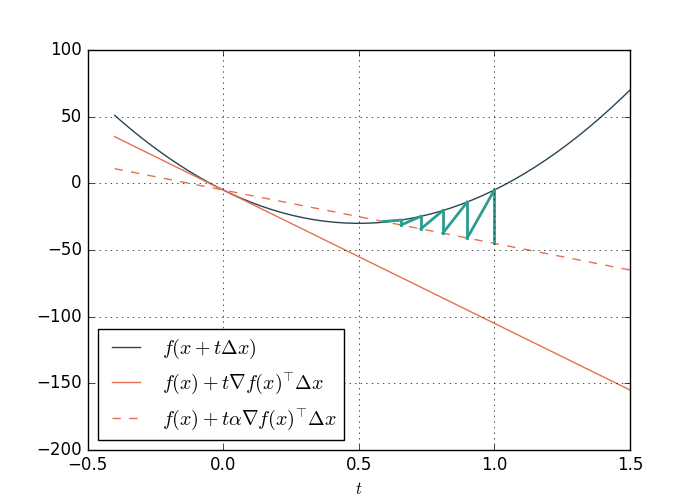
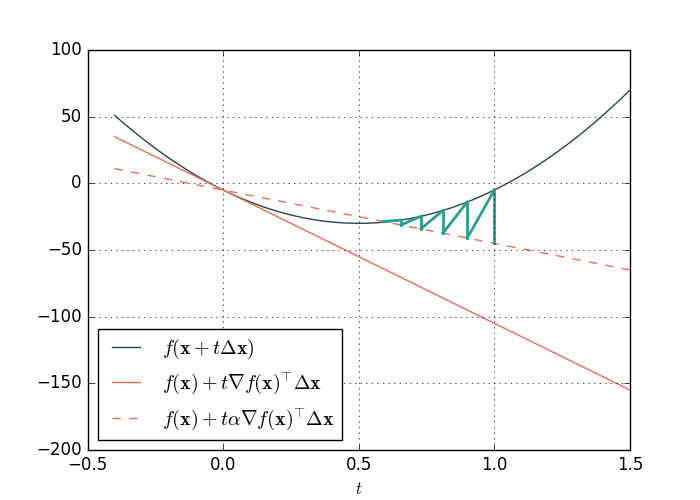
Read through unconstr. optimization

Changed region(s): [[0.3, 0.66, 0.51, 0.87], [0.24, 0.66, 0.39, 0.72], [0.24, 0.75, 0.27, 0.78]]

diff --git a/Chapters/02.Unconstrained/teachingtools.py b/Chapters/02.Unconstrained/teachingtools.py
@@ -107,11 +107,12 @@ def show_inexact_ls(alpha=0.4, beta=0.9, Dx=10):
     t_begin = -0.4
     t_end = 1.5
     tvals = np.linspace(t_begin, t_end)
-    ax.plot(tvals, f(tvals * Dx), color=blue, label=r'$f(x+t\Delta x)$')
+    ax.plot(tvals, f(tvals * Dx), color=blue,
+                label=r'$f(\mathbf{x}+t\Delta \mathbf{x})$')
     ax.plot(tvals, f(0) + tvals * df(0) * Dx, color=red,
-                label=r'$f(x)+t\nabla f(x)^\top \Delta x$')
+                label=r'$f(\mathbf{x})+t\nabla f(\mathbf{x})^\top \Delta \mathbf{x}$')
     ax.plot(tvals, f(0) + tvals * df(0) * alpha * Dx, color=red, ls='--',
-                        label=r'$f(x)+t\alpha\nabla f(x)^\top \Delta x$')
+                label=r'$f(\mathbf{x})+t\alpha\nabla f(\mathbf{x})^\top \Delta \mathbf{x}$')
     t = 1
     n_steps = 0
     while f(t * Dx) > f(0) + alpha * t * df(0) * Dx:

diff --git a/Chapters/02.Unconstrained/figure_btls.py b/Chapters/02.Unconstrained/figure_btls.py
@@ -1,0 +1,14 @@
+"""
+Created on Tuesday 13 February 2019
+Last update: -
+
+@author: Michiel Stock
+michielfmstock@gmail.com
+
+Figure BTLS
+"""
+
+from teachingtools import *
+
+fig = show_inexact_ls(alpha=0.4, beta=0.9, Dx=10)
+fig.savefig('Figures/btls.png')

diff --git a/Chapters/02.Unconstrained/notes_unconstrained.md b/Chapters/02.Unconstrained/notes_unconstrained.md
@@ -34,7 +34,7 @@ Most convex optimization problems do not have a closed-from solution, with the q
 > - dom($f$) is convex
 > - for any $\mathbf{x}, \mathbf{x}' \in \text{dom}(f)$ and any $\theta \in [0, 1]$, it holds that $f(\theta \mathbf{x} + (1-\theta)\mathbf{x}') \leq\theta f(\mathbf{x}) +(1-\theta)f(\mathbf{x}')$.
 
-![](Figures/convex_function_illustration.png)
+![A line connecting two points of a convex function always lies above the function.](Figures/convex_function_illustration.png)
 
 ![Some convex (A & C) and non-convex functions (B).](Figures/convex_functions.png)
 
@@ -46,7 +46,7 @@ From the definition, it follows that:
 Convex functions frequently arise:
 
 - If $f$ and $g$ are both convex, then $m(x)=\max(f(x), g(x))$ and $h(x)=f(x)+g(x)$ are also convex.
-- If $f$ and $g$ are convex functions and $g$ is non-decreasing over a univariate domain, then $h(x)=g(f(x))$ is convex. Example: $e^{f(x)}$ is convex if $f(\mathbf{x})$ is convex.
+- If $f$ and $g$ are convex functions and $g$ is non-decreasing over a univariate domain, then $h(x)=g(f(x))$ is convex. Example: $e^{f(x)}$ is convex if $f({x})$ is convex.
 
 Note, the convexity of expected value in probability theory gives rise to *Jensen's inequality*. For any convex function $\varphi$, if holds that
 $$
@@ -63,13 +63,15 @@ This implies for example that the square of an expected value of quantity is nev
 
 If the first- and second order derivatives exists, an strongly $m$-convex satisfies:
 
-- $f(\mathbf{x}') \geq f(\mathbf{x}) + \nabla f(\mathbf{x})^\intercal (\mathbf{x}'-\mathbf{x}) + \frac{m}{2}||\mathbf{x}'-\mathbf{x}||_2$
+- $f(\mathbf{x}') \geq f(\mathbf{x}) + \nabla f(\mathbf{x})^\top (\mathbf{x}'-\mathbf{x}) + \frac{m}{2}||\mathbf{x}'-\mathbf{x}||_2$
 - $\nabla^2 f(\mathbf{x})-mI\succeq 0$
 
 If a function is $m$-strongly convex, this also implies that there exists an $M>m$ such that
 $$
 \nabla^2 f(\mathbf{x}) \preceq MI\,.
 $$
+
+Stated differently, for strongly convex functions the exist both a quadratic function with a smaller as well as a lower local curvature.
 
 ## Minimizing convex functions
 
@@ -140,7 +142,7 @@ Many methods exist for this, we will consider the *backtracking line search* (BT
 >
 > $t:=1$
 >
->**while** $f(\mathbf{x}+t\Delta \mathbf{x}) > f(x) +\alpha t \nabla f(\mathbf{x})^\intercal\Delta \mathbf{x}$
+>**while** $f(\mathbf{x}+t\Delta \mathbf{x}) > f(x) +\alpha t \nabla f(\mathbf{x})^\top\Delta \mathbf{x}$
 >
 >>    $t:=\beta t$
 >
@@ -150,6 +152,7 @@ Many methods exist for this, we will consider the *backtracking line search* (BT
 ![Illustration of the backtracking line search.](Figures/btls.png)
 
 **Assignment 1**
+
 1. Complete the code for the backtracking line search
 2. Use this function find the step size $t$ to (approximately) minimize $f(x) = x^2 - 2x - 5$ starting from the point $0$. Choose a $\Delta x=10$.
 
@@ -186,7 +189,7 @@ A natural choise for the search direction is the negative gradient: $\Delta \mat
 
 ### General gradient descent algorithm
 
->**input** starting point $x\in$ **dom** $f$.
+>**input** starting point $\mathbf{x}\in$ **dom** $f$.
 >
 >**repeat**
 >
@@ -202,9 +205,9 @@ The stopping criterion is usually of the form $||\nabla f(\mathbf{x})||_2 \leq \
 
 ### Convergence analysis
 
-The notion of strongly convexity alows us to bound the function $f$ by two quadratic functions. As such we can reuse the convergence analysis of the previous chapter.
+The notion of strongly convexity allows us to bound the function $f$ by two quadratic functions. As such we can reuse the convergence analysis of the previous chapter.
 
-If $f$ is strongly convex (constants $m$ and $M$ exist), it holds that $f(\mathbf{x}^{(k)}) - p^*\leq \varepsilon$ after at most
+If $f$ is strongly convex (constants $m$ and $M$ exist such that $mI\prec \nabla^2 f(\mathbf{x})\prec MI$), it holds that $f(\mathbf{x}^{(k)}) - p^*\leq \varepsilon$ after at most
 $$
 \frac{\log((f(\mathbf{x}^{(0)}) - p^*)/\varepsilon)}{\log(1/c)}
 $$
@@ -212,7 +215,7 @@ iterations, where $c =1-\frac{m}{M}<1$.
 
 We conclude:
 
-- Number of steps needed for a given quality is proportional to the logarithm of the initial error.
+- The number of steps needed for a given quality is proportional to the logarithm of the initial error.
 - To increase the accuracy with an order of magnitude, only a few more steps are needed.
 - Convergence is again determined by the *condition number* $m/M$. Note that for large condition numbers: $\log(1/c)=-\log(1-\frac{m}{M})\approx m/M$, so the number of required iterations increases linearly with increasing $m/M$.
 
@@ -284,7 +287,7 @@ $$
 
 Consider $P\in \mathbb{R}^{n\times n}$ such that $P\succ 0$. The  corresponding *quadratic norm*:
 $$
-||\mathbf{z}||_P = (\mathbf{z}^\intercal P\mathbf{z})^\frac{1}{2}=||P^\frac{1}{2}\mathbf{z}||_2\,.
+||\mathbf{z}||_P = (\mathbf{z}^\top P\mathbf{z})^\frac{1}{2}=||P^\frac{1}{2}\mathbf{z}||_2\,.
 $$
 The matrix $P$ can be used to encode prior knowledge about the scales and dependencies in the space that we want to search.
 
@@ -292,7 +295,7 @@ The matrix $P$ can be used to encode prior knowledge about the scales and depend
 
 Let $|| \cdot ||$ be a norm on $\mathbb{R}^n$. The associated dual norm:
 $$
-||\mathbf{z}||_*=\sup \{\mathbf{z}^\intercal\mathbf{x}\mid ||\mathbf{x}||\leq 0\}\,.
+||\mathbf{z}||_*=\sup \{\mathbf{z}^\top\mathbf{x}\mid ||\mathbf{x}||\leq 0\}\,.
 $$
 
 Examples:
@@ -306,7 +309,7 @@ Examples:
 **Normalized steepest descent direction**:
 
 $$
-\Delta x_\text{nsd} = \text{arg min}_\mathbf{v}\, \{\nabla f(x)^T \mathbf{v} \mid ||\mathbf{v}||\leq 1 \}\,.
+\Delta x_\text{nsd} = \text{arg min}_\mathbf{v}\, \{\nabla f(\mathbf{x})^T \mathbf{v} \mid ||\mathbf{v}||\leq 1 \}\,.
 $$
 
 **Unnormalized steepest descent direction**:
@@ -317,7 +320,7 @@ $$
 
 Note that we have
 $$
-\nabla f(\mathbf{x})^\intercal \Delta x_\text{sd} = ||\nabla f(\mathbf{x})||_\star \nabla f(\mathbf{x})^\intercal\Delta x_\text{nsd} = -||\nabla f(\mathbf{x})||^2_\star\,,
+\nabla f(\mathbf{x})^\top \Delta x_\text{sd} = ||\nabla f(\mathbf{x})||_\star \nabla f(\mathbf{x})^\top\Delta x_\text{nsd} = -||\nabla f(\mathbf{x})||^2_\star\,,
 $$
 so this is a valid descent method.
 
@@ -325,14 +328,14 @@ so this is a valid descent method.
 
 ### Coordinate descent algorithm
 
-Using the $L_1$ norm results in coordinate descent.
+Using the $L_1$ norm results in coordinate descent. For every iteration in this algorithm, we descent in the direction of the dimension where the absolute value of the gradient is largest.
 
 >**input** starting point $\mathbf{x}\in$ **dom** $f$.
 >
 >**repeat**
 >
 >>    1. *Direction*. Choose $i$ such that $|\nabla f(\mathbf{x})_i|$ is maximal.
->>    2. *Choose direction*. $\Delta \mathbf{x} := -\nabla f(\mathbf{x})_i e_i$
+>>    2. *Choose direction*. $\Delta \mathbf{x} := -\nabla f(\mathbf{x})_i \mathbf{e}_i$
 >>    3. *Line seach*. Choose a step size $t$ via exact or backtracking line search.
 >>    4. *Update*. $\mathbf{x}:=\mathbf{x}+t\Delta \mathbf{x}$.
 >
@@ -340,11 +343,15 @@ Using the $L_1$ norm results in coordinate descent.
 >
 >**output** $\mathbf{x}$
 
-Here, $e_i$ is the $i$-th basic vector.
+Here, $\mathbf{e}_i$ is the $i$-th basic vector.
 
 The stopping criterion is usually of the form $||\nabla f(\mathbf{x})||_2 \leq \nu$.
 
 ![Convergence of coordinate descent on the quadratic and non-quadratic functions.](Figures/steepest_descent.png)
+
+Coordinate descent optimizes every dimension in turn, for this reason it is sometimes used in minimization problems which enforce sparseness (e.g. LASSO regression).
+
+> *Optimizing one dimension at a time is usually a poor strategy. This is because different dimensions are often related.*
 
 **Assignment 3**
 
@@ -399,7 +406,7 @@ which is called the *Newton step*.
 
 If $f$ is convex, then $\nabla^2f(\mathbf{x})$ is positive definite and
 $$
-\nabla f(\mathbf{x})^\intercal \Delta \mathbf{\mathbf{x}}_\text{nt} \geq 0\,,
+\nabla f(\mathbf{x})^\top \Delta \mathbf{\mathbf{x}}_\text{nt} \geq 0\,,
 $$
 hence the Newton step is a descent direction unless $\mathbf{x}$ is optimal.
 
@@ -410,10 +417,10 @@ This Newton step can be motivated in several ways.
 The second order Taylor approximation $\hat{f}$ of $f$ at $\mathbf{x}$ is
 
 $$
-f(\mathbf{x}+\mathbf{v})\approx\hat{f}(\mathbf{x}+\mathbf{v}) = f(\mathbf{x}) + \nabla f(\mathbf{x})^\intercal \mathbf{v} + \frac{1}{2} \mathbf{v}^\intercal \nabla^2 f(\mathbf{x}) \mathbf{v}\,
+f(\mathbf{x}+\mathbf{v})\approx\hat{f}(\mathbf{x}+\mathbf{v}) = f(\mathbf{x}) + \nabla f(\mathbf{x})^\top \mathbf{v} + \frac{1}{2} \mathbf{v}^\top \nabla^2 f(\mathbf{x}) \mathbf{v}\,
 $$
 
-which is a convex quadratic function of $\mathbf{v}$, and is minimized when $v=\Delta \mathbf{x}_\text{nt}$.
+which is a convex quadratic function of $\mathbf{v}$, and is minimized when $\mathbf{v}=\Delta \mathbf{x}_\text{nt}$.
 
 This quadratic model will be particularly accurate when $\mathbf{x}$ is close to $\mathbf{x}^*$.
 
@@ -421,7 +428,7 @@ This quadratic model will be particularly accurate when $\mathbf{x}$ is close to
 
 The Newton step is the steepest descent step if a quadratic norm using the Hessian is used, i.e.
 $$
-||\mathbf{u}||_{\nabla^2f(\mathbf{x})}=(\mathbf{u}^\intercal\nabla^2f(\mathbf{x})\mathbf{u})^\frac{1}{2}\,.
+||\mathbf{u}||_{\nabla^2f(\mathbf{x})}=(\mathbf{u}^\top\nabla^2f(\mathbf{x})\mathbf{u})^\frac{1}{2}\,.
 $$
 
 **Affine invariance of the Newton step**
@@ -430,18 +437,22 @@ $$
 
 The Newton step is independent of linear or affine changes of coordinates. Consider a non-singular $n\times n$ transformation matrix $T$. If we apply a coordinate transformation $\mathbf{y}=T\mathbf{x}$ and define $\bar{f}(\mathbf{y}) = f(\mathbf{x})$, then
 $$
-\nabla \bar{f}(\mathbf{y}) = T^\intercal\nabla f(\mathbf{x})\,,\quad \nabla^2 \bar{f}(\mathbf{y}) = T^\intercal\nabla^2f(\mathbf{x})T\,.
+\nabla \bar{f}(\mathbf{y}) = T^\top\nabla f(\mathbf{x})\,,\quad \nabla^2 \bar{f}(\mathbf{y}) = T^\top\nabla^2f(\mathbf{x})T\,.
 $$
 As such it follows that
 $$
 \mathbf{x} + \Delta \mathbf{x}_\text{nt} = T (\mathbf{y} + \Delta \mathbf{y}_\text{nt})\,.
 $$
 
+**Questions 1**
+
+Does scaling and rotation affect the working of gradient descent and coordinate descent?
+
 ### Newton decrement
 
 The Newton decrement is defined as
 $$
-\lambda(\mathbf{x})  = (\nabla f(\mathbf{x})^\intercal\nabla^2 f(x)^{-1}\nabla f(\mathbf{x}))^{1/2}\,.
+\lambda(\mathbf{x})  = (\nabla f(\mathbf{x})^\top\nabla^2 f(x)^{-1}\nabla f(\mathbf{x}))^{1/2}\,.
 $$
 
 This can be related to the quantity $f(\mathbf{x})-\text{inf}_\mathbf{y}\ \hat{f}(\mathbf{y})$:
@@ -456,7 +467,7 @@ Thus $\frac{1}{2} \lambda(\mathbf{x})^2$ is an estimate of $f(\mathbf{x}) - p^*$
 >
 >**repeat**
 >
->>    1. Compute the Newton step and decrement $\Delta \mathbf{x}_\text{nt} := -\nabla^2f(\mathbf{x})^{-1} \nabla f(\mathbf{x})$; $\lambda^2:=\nabla f(\mathbf{x})^\intercal\nabla^2 f(x)^{-1}\nabla f(x)$.
+>>    1. Compute the Newton step and decrement $\Delta \mathbf{x}_\text{nt} := -\nabla^2f(\mathbf{x})^{-1} \nabla f(\mathbf{x})$; $\lambda^2:=\nabla f(\mathbf{x})^\top\nabla^2 f(x)^{-1}\nabla f(x)$.
 >>    2. *Stopping criterion* **break** if $\lambda^2/2 \leq \epsilon$.
 >>    2. *Line seach*. Choose a step size $t$ via exact or backtracking line search.
 >>    3. *Update*. $\mathbf{x}:=\mathbf{x}+t\Delta \mathbf{x}$.
@@ -467,7 +478,7 @@ Thus $\frac{1}{2} \lambda(\mathbf{x})^2$ is an estimate of $f(\mathbf{x}) - p^*$
 
 The above algorithm is sometimes called the *damped* Newton method, as it uses a variable step size $t$. In practice, using a fixed step also works well. Here, one has to consider the computational cost of using BTLS versus performing a few extra Newton steps to attain the same accuracy.
 
-![Convergence of Newton's algorithm on the quadratic and non-quadratic functions.](Figures/convergence_nm.png)
+![Convergence of Newton's algorithm on the quadratic and non-quadratic functions. Note that the quadratic problem is solved exactly in one step.](Figures/convergence_nm.png)
 
 ### Convergence analysis
 
@@ -518,10 +529,10 @@ def newtons_method(f, x0, grad_f, hess_f, alpha=0.3,
 
 ### Summary Newton's method
 
-* Convergence of Newton's algorithm is rapid and quadratic near $\mathbf{x}^*$.
-* Newton's algorithm is affine invariant, e.g. invariant to choice of coordinates or condition number.
-* Newton's algorithm scales well with problem size. Computationally, computing and storing the Hessian might be prohibitive.
-* The hyperparameters $\alpha$ and $\beta$  of BTLS do not influence the performance much.
+- Convergence of Newton's algorithm is rapid and quadratic near $\mathbf{x}^*$.
+- Newton's algorithm is affine invariant, e.g. invariant to choice of coordinates or condition number.
+- Newton's algorithm scales well with problem size. Computationally, computing and storing the Hessian might be prohibitive.
+- The hyperparameters $\alpha$ and $\beta$  of BTLS do not influence the performance much.
 
 ## Quasi-Newton methods
 
@@ -531,11 +542,11 @@ Quasi-Newton methods try to emulate the success of the Newton method, but withou
 
 In many cases, there is no analytical expression for gradient and the Hessian. The finite difference method can motivate the following approximations for the gradient-vector product
 $$
-\nabla f(\mathbf{x})^\intercal\Delta\mathbf{x} \approx \frac{1}{2\epsilon} (f(\mathbf{x}+\epsilon\Delta\mathbf{x} ) - f(\mathbf{x}-\epsilon\Delta\mathbf{x} ))
+\nabla f(\mathbf{x})^\top\Delta\mathbf{x} \approx \frac{1}{2\epsilon} (f(\mathbf{x}+\epsilon\Delta\mathbf{x} ) - f(\mathbf{x}-\epsilon\Delta\mathbf{x} ))
 $$
 and the Hessian-vector product
 $$
-\nabla^2 f(\mathbf{x})^\intercal\Delta\mathbf{x} \approx \frac{1}{2\epsilon} (\nabla f(\mathbf{x}+\epsilon\Delta\mathbf{x} ) - \nabla f(\mathbf{x}-\epsilon\Delta\mathbf{x} ))\,
+\nabla^2 f(\mathbf{x})^\top\Delta\mathbf{x} \approx \frac{1}{2\epsilon} (\nabla f(\mathbf{x}+\epsilon\Delta\mathbf{x} ) - \nabla f(\mathbf{x}-\epsilon\Delta\mathbf{x} ))\,
 $$
 with $\epsilon$ a small constant.
 
@@ -550,7 +561,7 @@ $$
 We will assume that this function $f(\mathbf{x})$ is of the form
 
 $$
-f(\mathbf{x}) = \sigma(\mathbf{w}^\intercal\mathbf{x})\,,
+f(\mathbf{x}) = \sigma(\mathbf{w}^\top\mathbf{x})\,,
 $$
 
 with $\mathbf{w}$ a vector of parameters to be learned and $\sigma(.)$ the logistic map:
@@ -570,7 +581,7 @@ $$
 To find the best weights that separate the two classes, we can use the following loss function:
 
 $$
-\mathcal{L}(\mathbf{w})=-\sum_{i=1}^n[y_i\log(\sigma(\mathbf{w}^\intercal\mathbf{x}_i))+(1-y_i)\log(1-\sigma(\mathbf{w}^\intercal\mathbf{x}_i))] +\lambda \mathbf{w}^\intercal\mathbf{w}\,.
+\mathcal{L}(\mathbf{w})=-\sum_{i=1}^n[y_i\log(\sigma(\mathbf{w}^\top\mathbf{x}_i))+(1-y_i)\log(1-\sigma(\mathbf{w}^\top\mathbf{x}_i))] +\lambda \mathbf{w}^\top\mathbf{w}\,.
 $$
 
 Here, the first part is the cross entropy, which penalizes disagreement between the prediction $f(\mathbf{x}_i)$ and the true label $y_i$, while the second term penalizes complex models in which $\mathbf{w}$ has a large norm. The trade-off between these two components is controlled by $\lambda$, a hyperparameters. In the course *Predictive modelling* of Willem Waegeman it is explained that by carefully tuning this parameter one can obtain an improved performance. **In this project we will study the influence $\lambda$ on the convergence of the optimization algorithms.**
